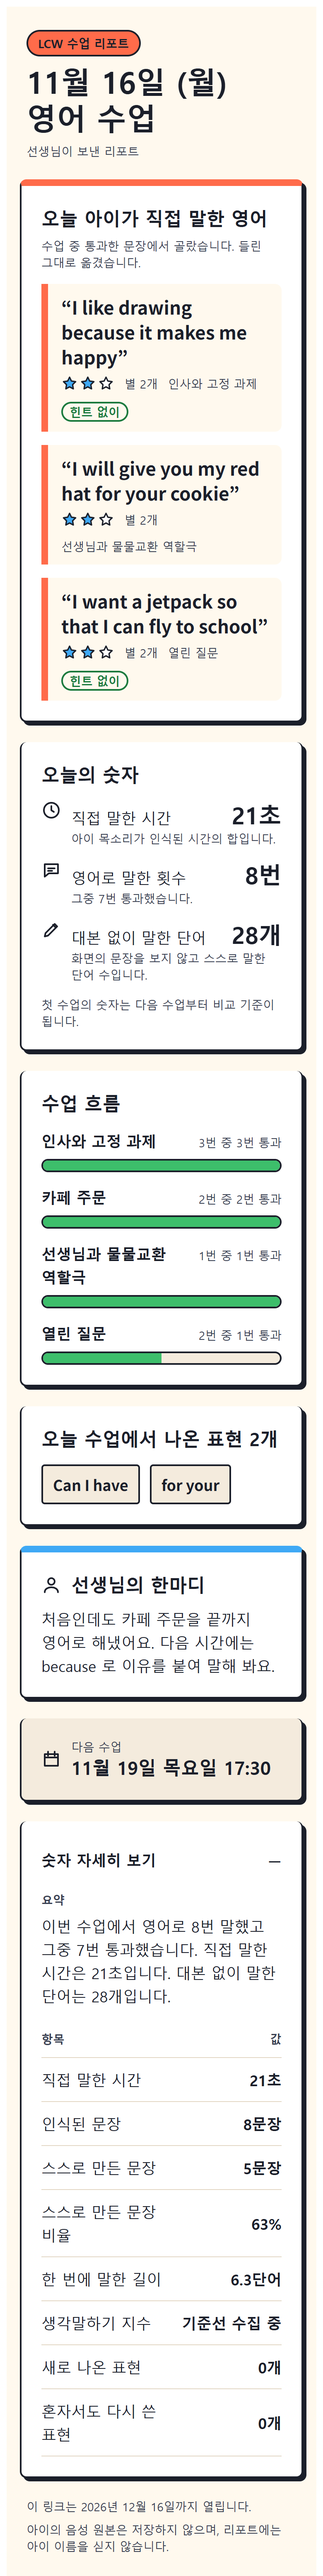
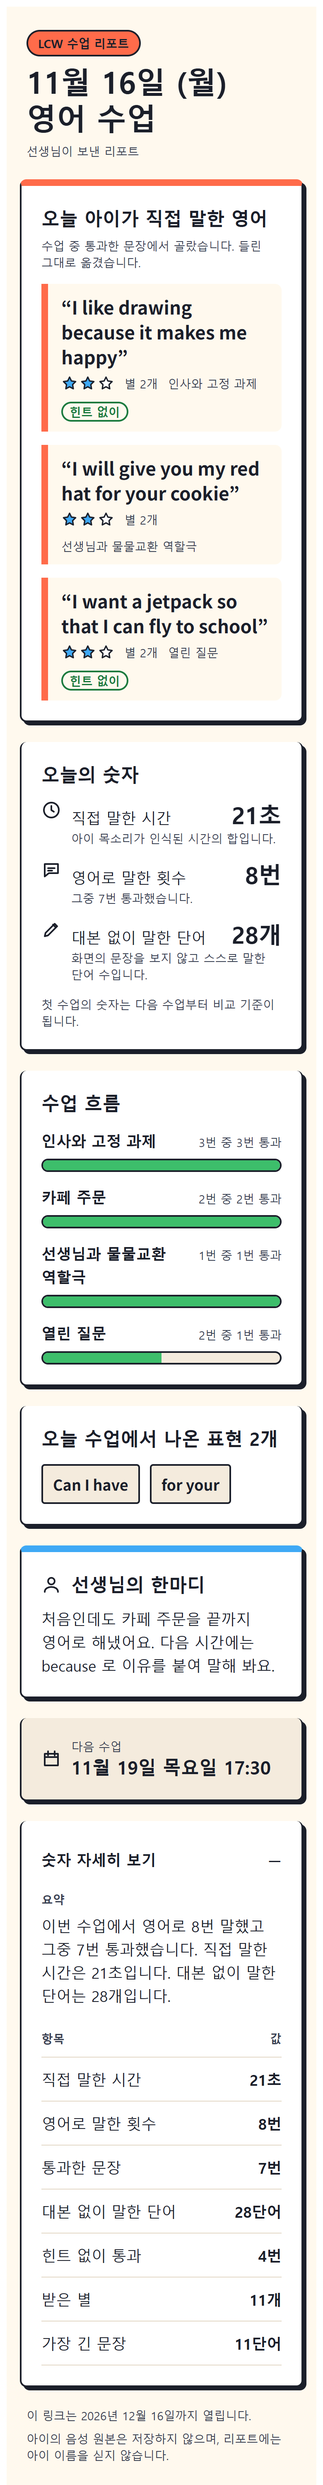
web: family/link tests and polish, report time label shares the table formatter
- /link shows one linked state (who + start game + relink) instead of form plus two banners
- family report list shows Korean dates
- speakingTimeLabel reuses formatLessonFact so stat, table and sentence read the same
- family.test.ts: service-consent gate disables child switches, five separate switches,
  no all-on control, invite fragment parsing, api request shapes
- screenshots for report, family and link at 390 (KakaoTalk UA), 1024, 1440

diff --git a/apps/web/src/__tests__/family.test.ts b/apps/web/src/__tests__/family.test.ts
@@ -1,0 +1,92 @@
+import React from 'react';
+import { renderToStaticMarkup } from 'react-dom/server';
+import { describe, expect, it } from 'vitest';
+import { DeviceLinkPage, FamilyPage } from '../FamilyPage.js';
+import { GUARDIAN_CONSENT_SCOPES, createFamilyApi, inviteFromHash, type FamilyMe } from '../familyApi.js';
+import type { FetchLike } from '../lessonApi.js';
+import { PARENT_STRINGS_KO } from '../parentStrings.js';
+
+const F = PARENT_STRINGS_KO.family;
+
+const child = (consents: Partial<Record<(typeof GUARDIAN_CONSENT_SCOPES)[number], boolean>> = {}) => ({
+  player_id: 'kid-1',
+  nickname: 'Juno',
+  level: 'A1',
+  birth_year: 2016,
+  consents: { voice_store: false, lesson_window: false, showroom_public: false, public_server: false, friend_voice: false, ...consents },
+  devices: [{ id: 'dev-1', label: 'iPad', created_at: Date.parse('2026-11-16T05:00:00Z'), last_seen_at: null }],
+  lessons: 1,
+  last_lesson_at: Date.parse('2026-11-16T06:00:00Z'),
+  reports: [{ share_path: '/r/abc', lesson_day: '2026-11-16', created_at: Date.parse('2026-11-16T07:00:00Z'), opened: true, expired: false, revoked: false }]
+});
+
+describe('family page (WP-301, docs/16 §3)', () => {
+  it('without the required service consent: the service box first, every child switch disabled, no add-child', () => {
+    const me: FamilyMe = { service_consented: false, children: [child()] };
+    const html = renderToStaticMarkup(React.createElement(FamilyPage, { initial: { status: 'ok', me }, initialToken: 'g' }));
+    expect(html).toContain('data-testid="family-service"');
+    expect(html.indexOf('data-testid="family-service"')).toBeLessThan(html.indexOf('data-testid="family-child-kid-1"'));
+    const switches = html.match(/<button[^>]*role="switch"[^>]*>/g) ?? [];
+    expect(switches.length).toBe(GUARDIAN_CONSENT_SCOPES.length);
+    for (const b of switches) expect(b).toContain('disabled');
+    expect(html).not.toContain('data-testid="family-add-child"');
+  });
+
+  it('after service consent: five optional consents, each its own switch, all off by default, no "all on" control', () => {
+    const me: FamilyMe = { service_consented: true, children: [child({ voice_store: true })] };
+    const html = renderToStaticMarkup(React.createElement(FamilyPage, { initial: { status: 'ok', me }, initialToken: 'g' }));
+    for (const s of GUARDIAN_CONSENT_SCOPES) expect(html).toContain(`data-testid="switch-${s}"`);
+    expect(html.match(/role="switch"/g)?.length).toBe(GUARDIAN_CONSENT_SCOPES.length);
+    expect(html).toMatch(/aria-checked="true"[^>]*data-testid="switch-voice_store"/);
+    expect((html.match(/aria-checked="true"/g) ?? []).length).toBe(1);
+    expect(html).not.toMatch(/모두 (켜기|동의)/);
+    for (const s of GUARDIAN_CONSENT_SCOPES) expect(html).toContain(F.consents[s].refuse);
+    expect(html).toContain('iPad');
+    expect(html).toContain('11월 16일 (월)');
+    expect(html).toContain('data-testid="family-add-child"');
+  });
+
+  it('no session (or a bad invite) asks for the teacher link, never a password form', () => {
+    const html = renderToStaticMarkup(React.createElement(FamilyPage, { initial: { status: 'no_session', inviteInvalid: true }, initialToken: null }));
+    expect(html).toContain('data-testid="family-no-session"');
+    expect(html).not.toContain('type="password"');
+  });
+
+  it('device link page renders a 6-digit code field', () => {
+    const html = renderToStaticMarkup(React.createElement(DeviceLinkPage, {}));
+    expect(html).toContain('data-testid="device-link-page"');
+    expect(html).toMatch(/inputmode="numeric"/i);
+  });
+});
+
+describe('family api client', () => {
+  it('invite comes only from a 48-hex #k= fragment', () => {
+    const k = 'a'.repeat(48);
+    expect(inviteFromHash(`#k=${k}`)).toBe(k);
+    expect(inviteFromHash(`#x=1&k=${k}`)).toBe(k);
+    expect(inviteFromHash('#k=abc')).toBeNull();
+    expect(inviteFromHash(`#k=${'Z'.repeat(48)}`)).toBeNull();
+  });
+
+  it('sends the guardian token as bearer, one consent per request, and revokes by token not path', async () => {
+    const seen: Array<{ method: string; url: string; auth: string | null; body: unknown }> = [];
+    const fetch: FetchLike = async (url, init) => {
+      seen.push({ method: init?.method ?? 'GET', url, auth: new Headers(init?.headers).get('authorization'), body: init?.body ? JSON.parse(String(init.body)) : undefined });
+      return new Response(JSON.stringify({ ok: true }));
+    };
+    const api = createFamilyApi({ fetch });
+    await api.setConsent('gtok', 'kid-1', 'voice_store', true);
+    await api.revokeReport('gtok', '/r/abc');
+    await api.linkDevice('123456', 'iPad');
+    expect(seen).toEqual([
+      { method: 'PUT', url: '/v1/family/children/kid-1/consents/voice_store', auth: 'Bearer gtok', body: { granted: true } },
+      { method: 'POST', url: '/v1/family/reports/abc/revoke', auth: 'Bearer gtok', body: {} },
+      { method: 'POST', url: '/v1/device/link', auth: null, body: { code: '123456', label: 'iPad' } }
+    ]);
+  });
+
+  it('server errors surface the error code', async () => {
+    const api = createFamilyApi({ fetch: async () => new Response(JSON.stringify({ error: 'service_consent_required' }), { status: 403 }) });
+    await expect(api.addChild('g', { nickname: 'a', birth_year: 2016 })).rejects.toMatchObject({ code: 'service_consent_required' });
+  });
+});

diff --git a/apps/web/src/FamilyPage.tsx b/apps/web/src/FamilyPage.tsx
@@ -21,6 +21,7 @@ import {
 import { errorCodeOf } from './lessonApi.js';
 import { kstLabel } from './lessonFlow.js';
 import { Box, LessonStyle, Notice, border, inputStyle, labelStyle, sp } from './lessonUi.js';
+import { lessonDayLabel } from './ParentReportPage.js';
 import { PARENT_STRINGS_KO } from './parentStrings.js';
 
 const F = PARENT_STRINGS_KO.family;
@@ -299,7 +300,7 @@ function ChildCard({
             return (
               <li key={r.share_path} style={{ display: 'flex', justifyContent: 'space-between', alignItems: 'center', gap: sp(2), flexWrap: 'wrap', borderBottom: `1px solid ${C['line-200']}`, padding: `${sp(1)} 0` }}>
                 <span>
-                  <strong>{r.lesson_day}</strong> <span style={small}>{state}</span>
+                  <strong>{lessonDayLabel(r.lesson_day)}</strong> <span style={small}>{state}</span>
                 </span>
                 <span style={{ display: 'flex', gap: sp(1), alignItems: 'center' }}>
                   {live ? (
@@ -418,11 +419,37 @@ export function DeviceLinkPage({ api }: { api?: FamilyApi }): React.ReactElement
   const [label, setLabel] = useState('');
   const [msg, setMsg] = useState<{ kind: 'ok' | 'error'; text: string } | null>(null);
   const [busy, setBusy] = useState(false);
+  const [relinking, setRelinking] = useState(false);
+  if (linked && !relinking) {
+    // One clear state once the device is linked: who it belongs to and the way into the game.
+    return (
+      <main className="lcw-lesson" data-testid="device-link-page" style={{ maxWidth: '480px', margin: '0 auto', display: 'grid', gap: sp(3), fontFamily: T.fonts.ui }}>
+        <LessonStyle />
+        <Box title={LK.title} testId="device-linked">
+          <Notice kind="ok">{msg?.kind === 'ok' ? msg.text : LK.already(linked)}</Notice>
+          <div style={{ display: 'flex', flexWrap: 'wrap', gap: sp(2), marginTop: sp(3) }}>
+            <Button type="button" variant="brand" onClick={() => window.location.assign('/game/')}>
+              {LK.goGame}
+            </Button>
+            <Button
+              type="button"
+              variant="paper"
+              onClick={() => {
+                setMsg(null);
+                setRelinking(true);
+              }}
+            >
+              {LK.relink}
+            </Button>
+          </div>
+        </Box>
+      </main>
+    );
+  }
   return (
     <main className="lcw-lesson" data-testid="device-link-page" style={{ maxWidth: '480px', margin: '0 auto', display: 'grid', gap: sp(3), fontFamily: T.fonts.ui }}>
       <LessonStyle />
       <Box title={LK.title}>
-        {linked ? <Notice kind="ok">{LK.already(linked)}</Notice> : null}
         <p style={{ marginTop: 0 }}>{LK.body}</p>
         <form
           style={{ display: 'grid', gap: sp(2) }}
@@ -437,6 +464,7 @@ export function DeviceLinkPage({ api }: { api?: FamilyApi }): React.ReactElement
               setLinked(r.nickname);
               setMsg({ kind: 'ok', text: LK.done(r.nickname) });
               setCode('');
+              setRelinking(false);
             } catch (err) {
               const c = errorCodeOf(err);
               setMsg({ kind: 'error', text: c === 'too_many_attempts' ? LK.tooMany : c === 'network' ? LK.network : LK.wrong });

diff --git a/apps/web/src/ParentReportPage.tsx b/apps/web/src/ParentReportPage.tsx
@@ -8,7 +8,7 @@
 import React, { useCallback, useEffect, useRef, useState } from 'react';
 import { Button, TOKENS } from '@lcw/ui';
 import { createLessonApi, errorCodeOf, loadOperatorToken, type LessonApi, type SharedReport } from './lessonApi.js';
-import { kstLabel, reportFactRows } from './lessonFlow.js';
+import { formatLessonFact, kstLabel, reportFactRows } from './lessonFlow.js';
 import { LessonStyle, border, sp } from './lessonUi.js';
 import { PARENT_STRINGS_KO } from './parentStrings.js';
 import { LESSON_STRINGS_KO } from './strings.js';
@@ -249,10 +249,7 @@ export function lessonFactsOf(facts: Record<string, unknown> | undefined): Lesso
 
 /** "21초", "2분 5초", "28분" — the same split the server's summary sentence uses. */
 export function speakingTimeLabel(sec: number): string {
-  const m = Math.floor(sec / 60);
-  const s = sec % 60;
-  if (m === 0) return `${s}초`;
-  return s > 0 ? `${m}분 ${s}초` : `${m}분`;
+  return formatLessonFact('speaking_sec', sec);
 }
 
 /** "2026-11-16" → "11월 16일 (일)". */

diff --git a/apps/web/src/parentStrings.ts b/apps/web/src/parentStrings.ts
@@ -118,6 +118,8 @@ export const PARENT_STRINGS_KO = {
     wrong: '코드가 맞지 않거나 시간이 지났어요. 보호자 화면에서 새 코드를 받아 주세요.',
     tooMany: '시도가 너무 많아요. 잠시 뒤에 다시 해 주세요.',
     network: '인터넷 연결을 확인하고 다시 해 주세요.',
-    defaultLabel: '아이 기기'
+    defaultLabel: '아이 기기',
+    goGame: '게임 시작하기',
+    relink: '다른 코드로 다시 연결하기'
   }
 } as const;

diff --git a/apps/web/src/__tests__/parent-report.test.ts b/apps/web/src/__tests__/parent-report.test.ts
@@ -59,6 +59,9 @@ describe('report table never contradicts the summary sentence', () => {
 
   it('a report without lesson facts (weekly) keeps the weekly table', () => {
     expect(reportFactRows({ active_speaking_minutes: 0.04 })[0]!.key).toBe('active_speaking_minutes');
+  });
+});
+
 const P = PARENT_STRINGS_KO.report;
 const lessonReport = (over: Record<string, unknown> = {}): SharedReport => ({
   kind: 'lesson',
